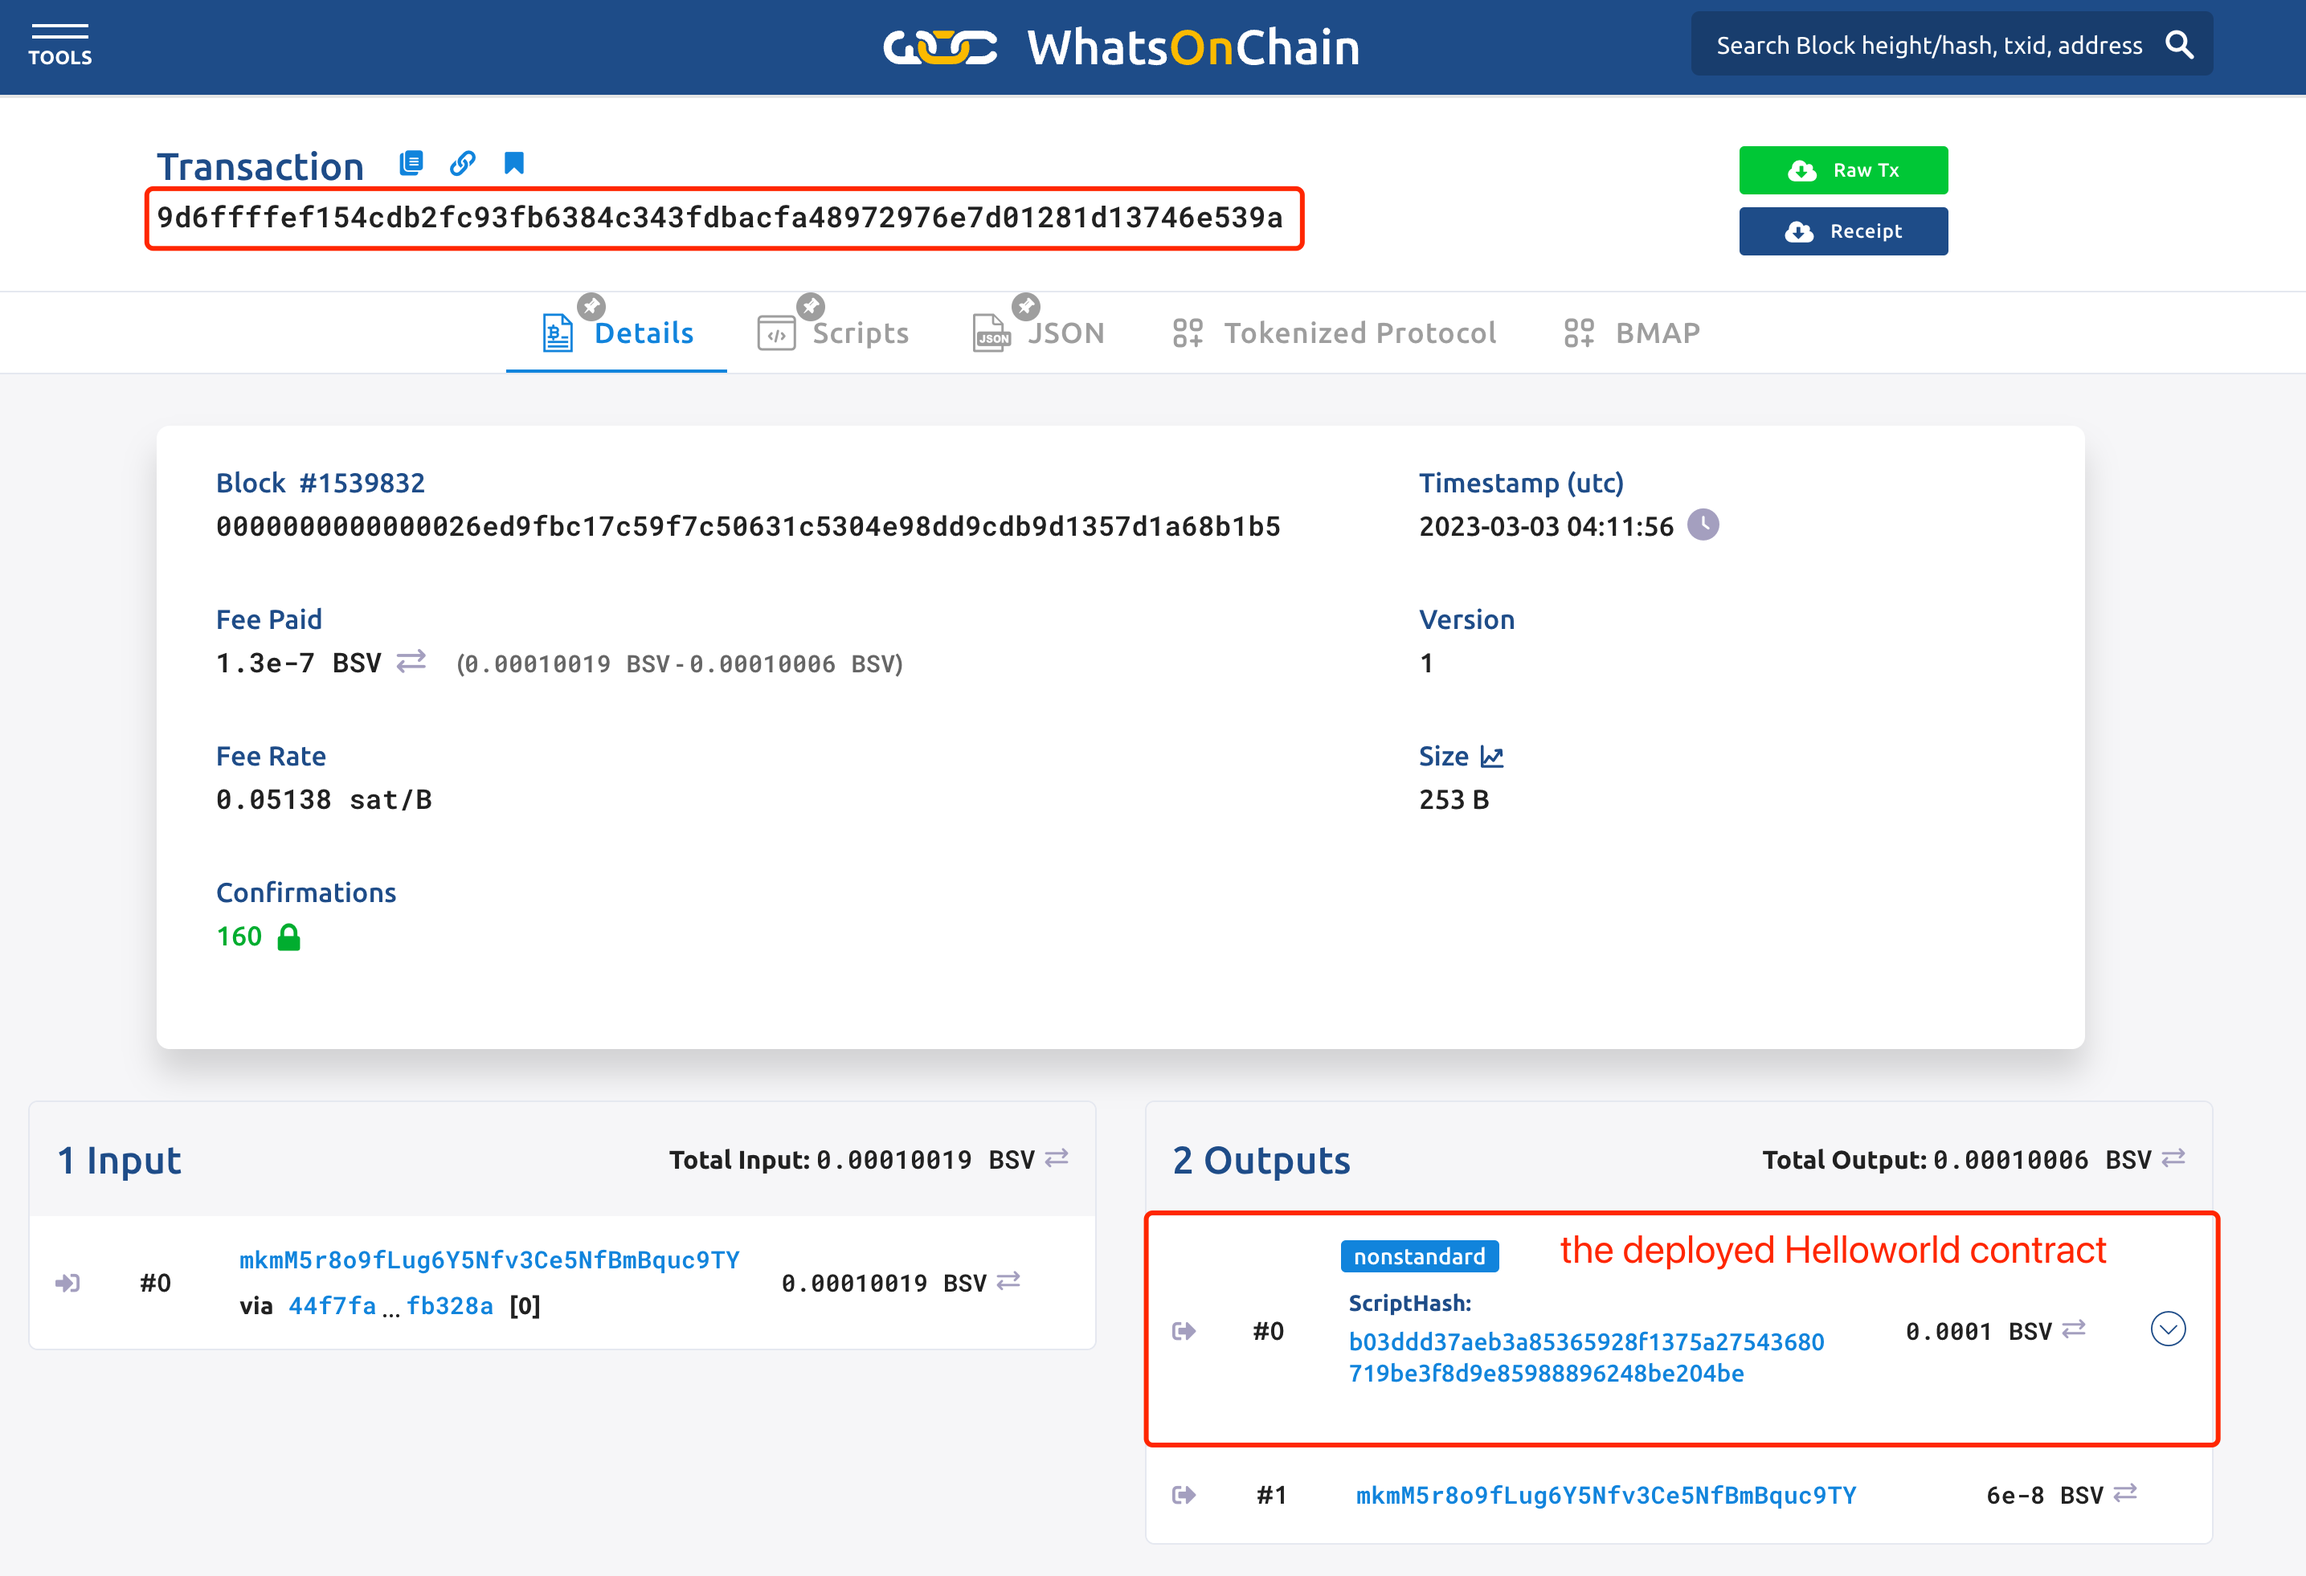
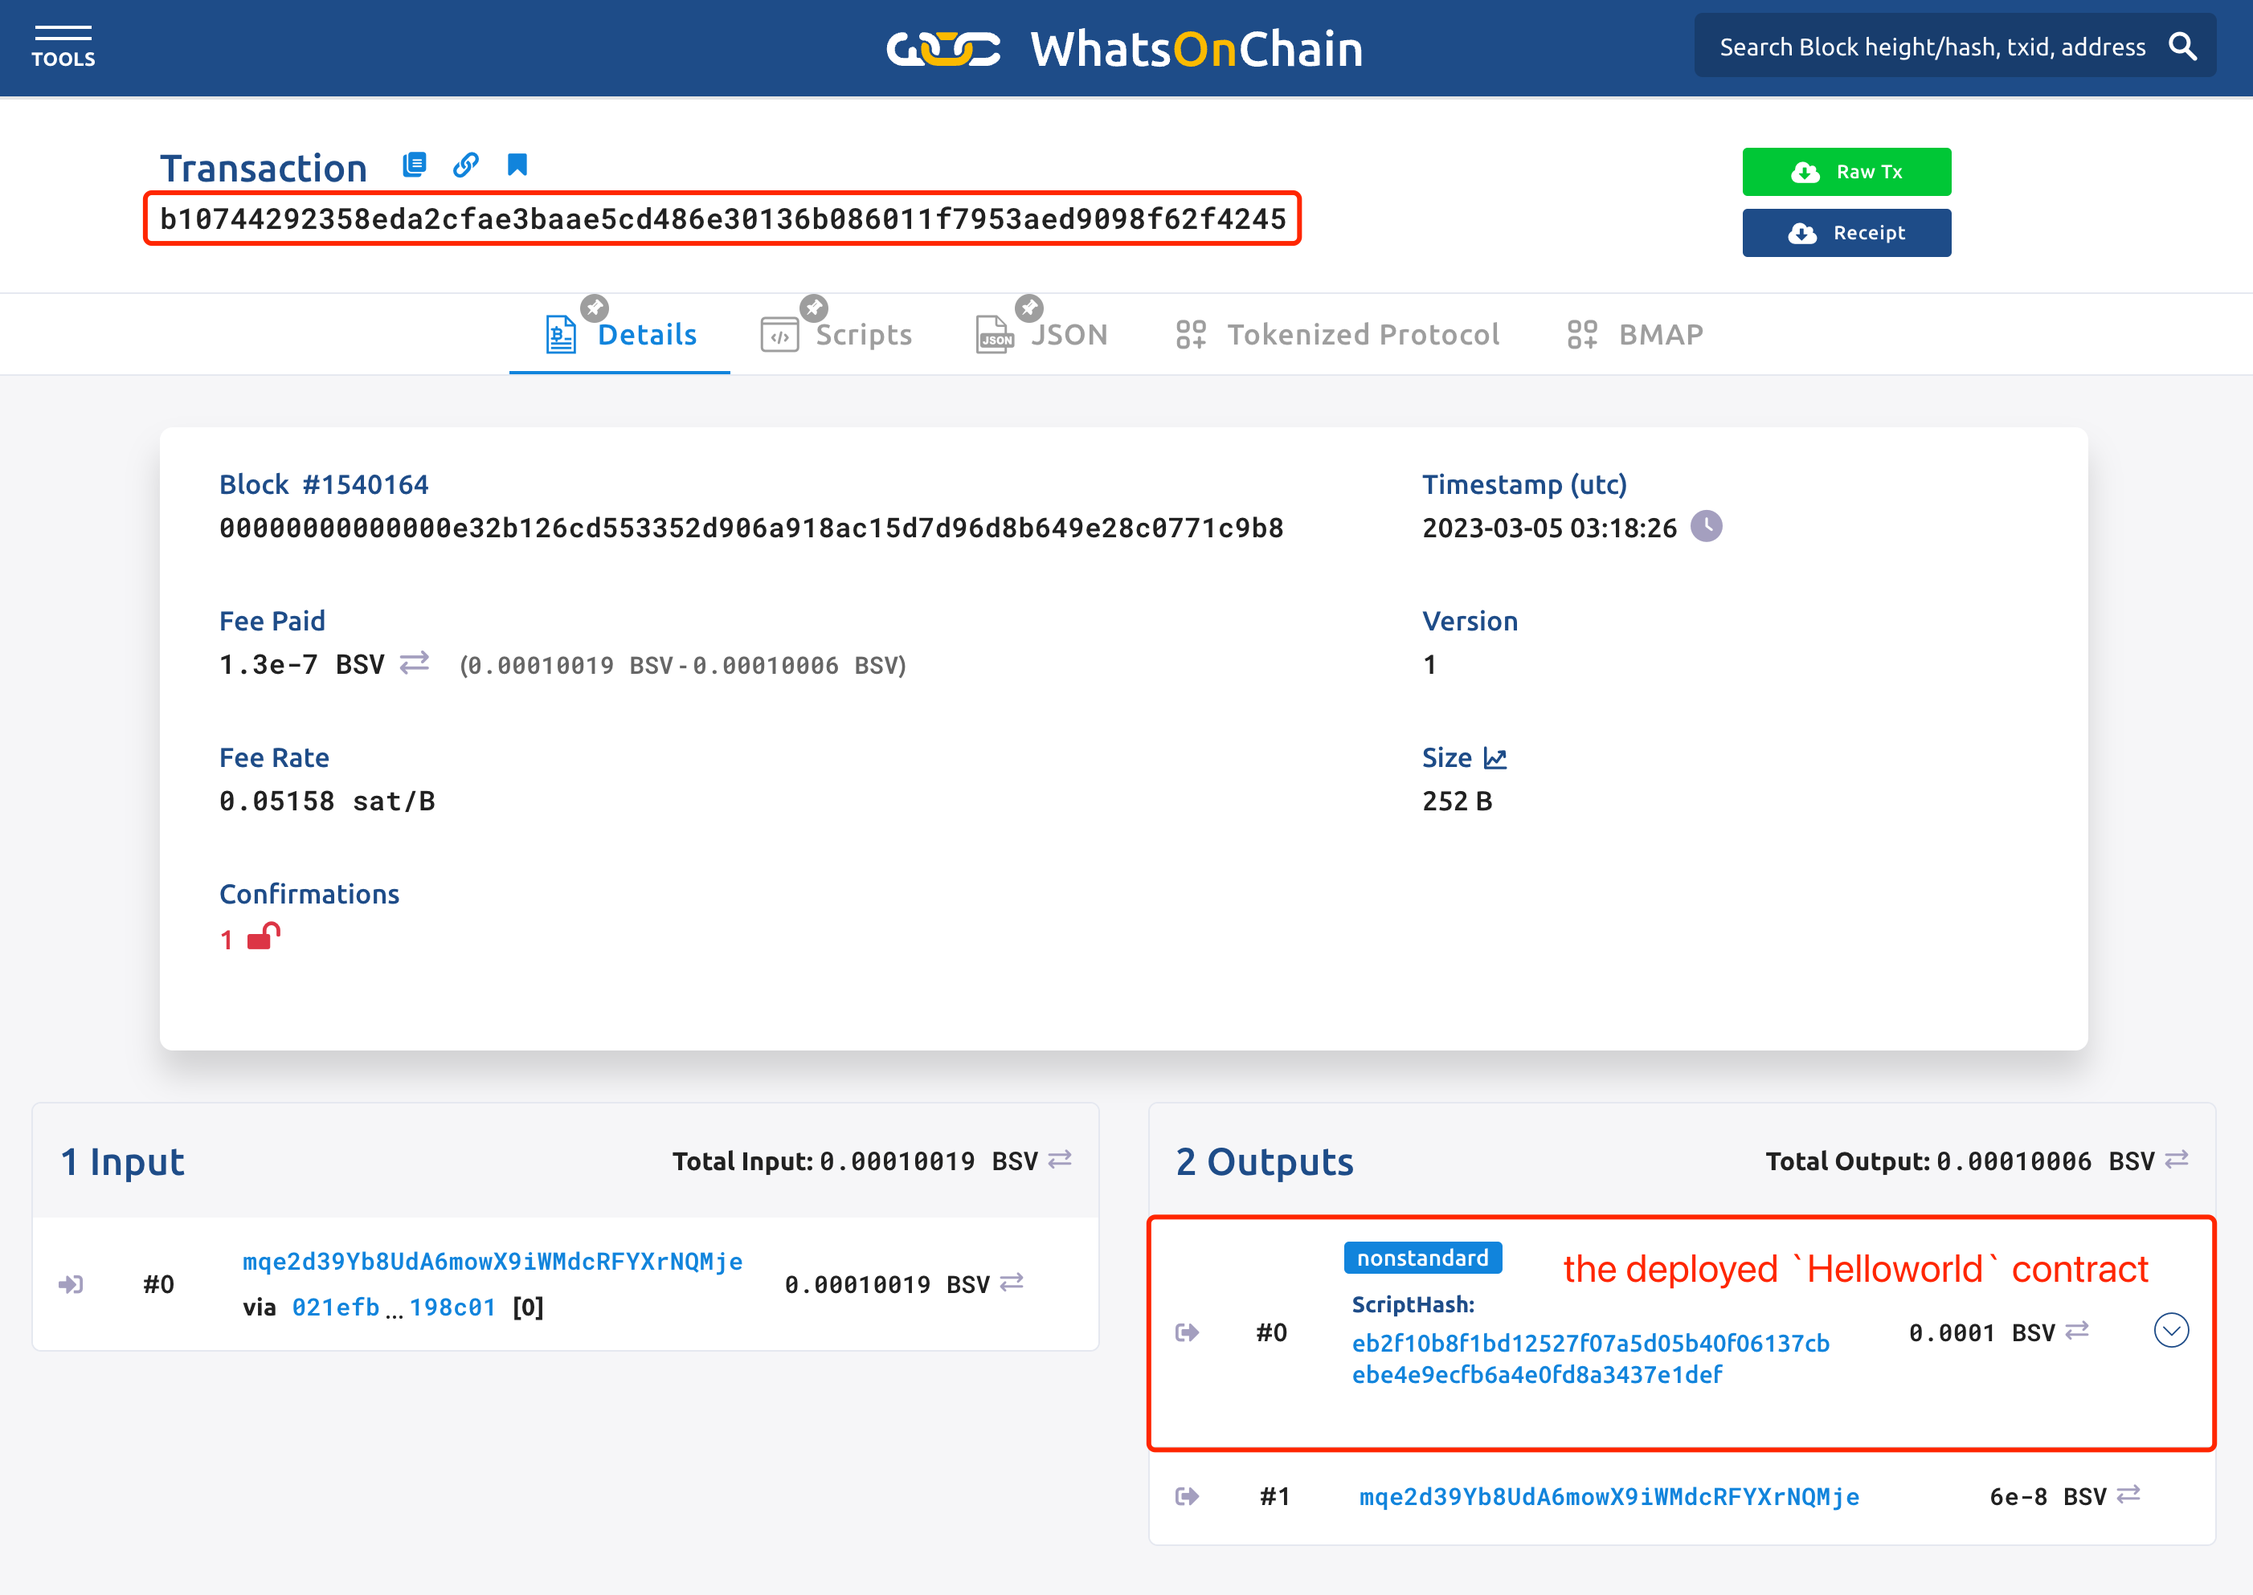
update helloworld

diff --git a/docs/tutorials/hello-world.md b/docs/tutorials/hello-world.md
@@ -65,7 +65,7 @@ Before we deploy the contract, follow [the instruction](../how-to-deploy-and-cal
 
 2. To [call a smart contract](../how-to-deploy-and-call-a-contract.md#contract-call), call one of its public method.
 
-Modify `tests/local/helloworld.test.ts` to the following code, to deploy and call the `Helloworld` contract.
+Modify `tests/testnet/helloworld.ts` to the following code, to deploy and call the `Helloworld` contract.
 
 ```ts
 import { Helloworld } from '../../src/contracts/helloworld'
@@ -74,40 +74,40 @@ import { toByteString, sha256 } from 'scrypt-ts'
 
 (async () => {
 
-const message = toByteString('hello world', true)
+    const message = toByteString('hello world', true)
 
-await Helloworld.compile()
-const instance = new Helloworld(sha256(message))
+    await Helloworld.compile()
+    const instance = new Helloworld(sha256(message))
 
-// connect to a signer
-await instance.connect(getDefaultSigner())
+    // connect to a signer
+    await instance.connect(getDefaultSigner())
 
-// contract deployment
-const deployTx = await instance.deploy(inputSatoshis)
-console.log('Helloworld contract deployed: ', deployTx.id)
+    // contract deployment
+    const deployTx = await instance.deploy(inputSatoshis)
+    console.log('Helloworld contract deployed: ', deployTx.id)
 
-// contract call
-const { tx: callTx } = await instance.methods.unlock(message)
-console.log('Helloworld contract `unlock` called: ', callTx.id)
+    // contract call
+    const { tx: callTx } = await instance.methods.unlock(message)
+    console.log('Helloworld contract `unlock` called: ', callTx.id)
 
-}()
+})()
 ```
 
 Run the following command:
 ```
-npx ts-node tests/local/helloworld.test.ts
+npx ts-node tests/testnet/helloworld.ts
 ```
 You will see some output like:
 
 ![](../../static/img/hello-world-deploy-and-call-output.png)
 
 
-You can view [the deployment transaction](https://test.whatsonchain.com/tx/9d6ffffef154cdb2fc93fb6384c343fdbacfa48972976e7d01281d13746e539a) using the WhatsOnChain blockchain explorer:
+You can view [the deployment transaction](https://test.whatsonchain.com/tx/b10744292358eda2cfae3baae5cd486e30136b086011f7953aed9098f62f4245) using the WhatsOnChain blockchain explorer:
 
 ![](../../static/img/hello-world-contract-deploy-tx.png)
 
 
-You can also view [the calling transaction](https://test.whatsonchain.com/tx/25aa4697ace65f59098a5767e483149daf82d9ae5fad87a721941c5715faac1d):
+You can also view [the calling transaction](https://test.whatsonchain.com/tx/f28175616b6dd0ebe2aad41505aabb5bf2864e2e6d1157168183f51b6194d3e6):
 
 ![](../../static/img/hello-world-contract-call-tx.png)
 
